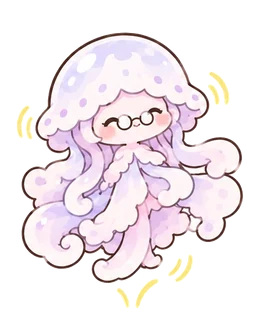
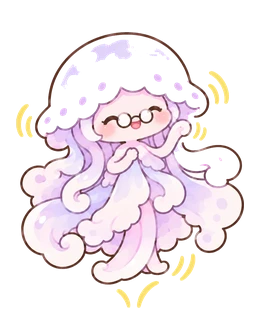
ゆらり（おとしより・ひる2）の 絵 を うで つき の 絵 に 差し替え

diff --git a/index.html b/index.html
@@ -5,10 +5,10 @@
 <link rel="icon" type="image/png" sizes="64x64" href="favicon.png?v=3">
 <link rel="apple-touch-icon" href="apple-touch-icon.png?v=3">
 <link rel="manifest" href="manifest.json">
-<script src="stickers/stickers.js?v=202610280823"></script>
-<script src="nakama/nakama.js?v=202610280823"></script>
-<script src="clock/clock.js?v=202610280823"></script>
-<script src="drill/patterns.js?v=202610280823"></script>
+<script src="stickers/stickers.js?v=202610280824"></script>
+<script src="nakama/nakama.js?v=202610280824"></script>
+<script src="clock/clock.js?v=202610280824"></script>
+<script src="drill/patterns.js?v=202610280824"></script>
 <meta name="apple-mobile-web-app-title" content="けいさん">
 <link rel="preconnect" href="https://fonts.googleapis.com">
 <link rel="preconnect" href="https://fonts.gstatic.com" crossorigin>
@@ -3466,7 +3466,7 @@ body.course .levels.nrange .lv{padding:3px 2px;font-size:12px}
   const nkSp = id => NK_LIST.find(x=>x.id===id) || NK_LIST[0];
   // ちいさい だんかいは すこし おおきく みせる（そだって いる かんじは のこす）
   const NK_SCALE = [1.9, 1.5, 1.15, 1, 1, 1];
-  const NK_IMG_VER = "9";   // なかまの え を さしかえたら ばんごうを あげる（ふるい え が のこらない ように）
+  const NK_IMG_VER = "10";   // なかまの え を さしかえたら ばんごうを あげる（ふるい え が のこらない ように）
   const nkImgSrc = (id, stage, mood) => `nakama/${id}/${NK_STAGES[stage]}_${stage===0 && mood==="s" ? "n" : mood}.webp?v=${NK_IMG_VER}`;
   const dkDate = k => { const [y,m,d]=k.split("-").map(Number); return new Date(y, m-1, d); };
   const dkAdd = (k, n) => { const d=dkDate(k); d.setDate(d.getDate()+n); return dayKey(d); };

diff --git a/CHANGELOG.md b/CHANGELOG.md
@@ -12,6 +12,9 @@
 ## 2026-10-28
 
 ### 修正（なかま）
+- **18:56** ゆらり（おとしより・ひる）にも、ほかの段階と同じように うでを つけました。
+
+### 修正（なかま）
 - **18:53** すなまる（おとしより・にこにこ／しょんぼり）の絵で、あしの数がおかしかったのを直しました。ゆらり（おとしより・ふつう／ひる）には、ほかの段階と同じように うでを つけました。
 
 ### 修正（なかま）
